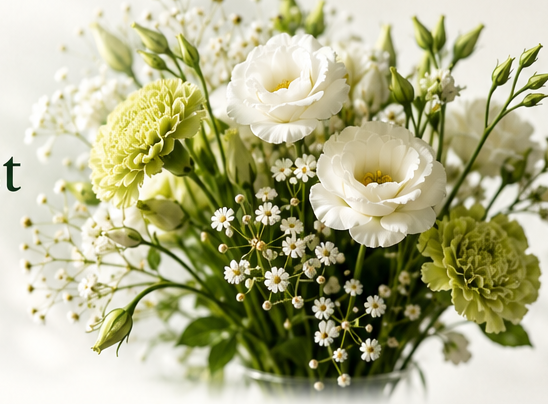
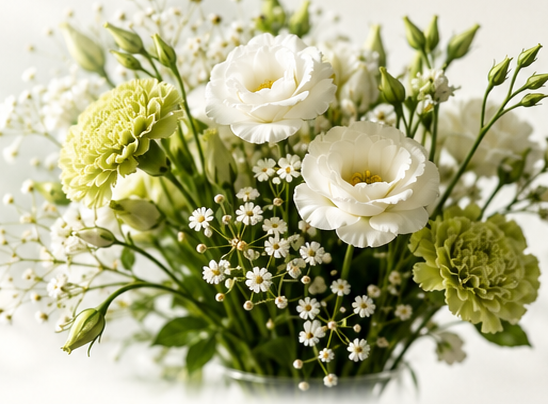
Fix homepage hero typography and bouquet crop

diff --git a/src/style.css b/src/style.css
@@ -226,10 +226,10 @@ body[data-screen='flowever-home']::before {
 
 .flow-hero {
   display: grid;
-  grid-template-columns: 56px minmax(0, 0.95fr) minmax(360px, 1.08fr);
-  gap: 28px;
-  align-items: center;
-  padding: 18px 0 8px;
+  grid-template-columns: 56px minmax(470px, 520px) minmax(0, 1fr);
+  gap: 34px;
+  align-items: start;
+  padding: 24px 0 8px;
 }
 
 .flow-hero-rail {
@@ -274,7 +274,10 @@ body[data-screen='flowever-home']::before {
 }
 
 .flow-hero-copy {
-  padding-top: 62px;
+  max-width: 520px;
+  padding-top: 78px;
+  position: relative;
+  z-index: 1;
 }
 
 .flow-hero-copy h1,
@@ -288,15 +291,16 @@ body[data-screen='flowever-home']::before {
 }
 
 .flow-hero-copy h1 {
-  font-size: clamp(4rem, 6vw, 7rem);
+  font-size: clamp(5.35rem, 5.8vw, 6.85rem);
+  white-space: nowrap;
 }
 
 .flow-hero-copy p {
-  max-width: 13ch;
+  max-width: 26ch;
   margin: 28px 0 0;
   color: rgba(27, 42, 32, 0.94);
-  font-size: clamp(1.2rem, 1.7vw, 1.75rem);
-  line-height: 1.45;
+  font-size: clamp(1.06rem, 1.18vw, 1.3rem);
+  line-height: 1.55;
 }
 
 .flow-hero-divider {
@@ -357,10 +361,12 @@ body[data-screen='flowever-home']::before {
 .flow-hero-visual {
   display: flex;
   justify-content: flex-end;
+  padding-top: 44px;
+  min-width: 0;
 }
 
 .flow-hero-visual img {
-  width: min(100%, 738px);
+  width: min(100%, 760px);
   display: block;
 }
 
@@ -799,8 +805,8 @@ body[data-screen='flowever-home']::before {
   }
 
   .flow-hero {
-    grid-template-columns: 40px minmax(0, 1fr) minmax(320px, 0.95fr);
-    gap: 18px;
+    grid-template-columns: 40px minmax(390px, 470px) minmax(0, 1fr);
+    gap: 22px;
   }
 
   .flow-values-strip {
@@ -853,10 +859,11 @@ body[data-screen='flowever-home']::before {
 
   .flow-hero-copy {
     padding-top: 0;
+    max-width: none;
   }
 
   .flow-hero-copy p {
-    max-width: 18ch;
+    max-width: 28ch;
   }
 
   .flow-values-strip,

diff --git a/design-qa.md b/design-qa.md
@@ -1,0 +1,45 @@
+source visual truth path: /var/folders/7r/3t115g1j75nd2wdtq7flgrx80000gn/T/codex-clipboard-0ac90631-1fd0-446b-9329-d92071881ca7.png
+implementation screenshot path: /Users/lengzhe/Documents/New project/igem-wiki-preview/output/playwright/homepage-hero-fixed.png
+viewport: 1280x720
+state: homepage hero, desktop, default navigation closed
+full-view comparison evidence: compared the user-provided collapsed hero screenshot against the refreshed local homepage screenshot at the same desktop-style above-the-fold state.
+focused region comparison evidence: focused on the hero title block, subtitle wrapping, left vertical rail, and bouquet image crop because the reported failure was isolated to the above-the-fold hero region.
+
+**Findings**
+- [P1] Hero copy column was too narrow and allowed the headline to collapse into four lines
+  Location: homepage hero, `/Users/lengzhe/Documents/New project/igem-wiki-preview/src/style.css`.
+  Evidence: source intent shows a stable two-line title block; implementation had “Extending Life Beyond Harvest” wrapping into a stacked four-line block.
+  Impact: the first-screen hierarchy broke and the hero no longer matched the selected design.
+  Fix: changed the hero grid to use a fixed-width copy column, increased the copy max width, and prevented intraline wrapping on the display heading.
+
+- [P1] Bouquet asset included a stray letter from the original screenshot crop
+  Location: homepage hero image, `/Users/lengzhe/Documents/New project/igem-wiki-preview/src/assets/home-2026/hero-bouquet.png`.
+  Evidence: implementation showed a dark “t” artifact between the text block and bouquet image.
+  Impact: the artifact made the page look visibly broken.
+  Fix: recropped the bouquet image to remove the captured text artifact and reloaded the page.
+
+- [P2] Subtitle wrapped too aggressively and read like a narrow mobile column on desktop
+  Location: homepage hero subtitle, `/Users/lengzhe/Documents/New project/igem-wiki-preview/src/style.css`.
+  Evidence: implementation subtitle broke into many short lines, while the chosen reference keeps it in a calmer multi-line paragraph.
+  Impact: reduced readability and made the typography feel unstable.
+  Fix: widened the subtitle measure and reduced the desktop subtitle size range.
+
+**Open Questions**
+- The current QA pass is scoped to the hero region because that is what the user reported. Lower sections of the homepage were not re-reviewed in this pass.
+
+**Implementation Checklist**
+- Keep the hero grid on a fixed desktop ratio instead of letting the text column shrink under the bouquet image.
+- Keep the display heading on two intended lines only.
+- Keep source-cropped hero imagery free of screenshot text artifacts.
+- Keep the subtitle at a readable desktop measure.
+
+**Follow-up Polish**
+- Recheck the full homepage against the reference image section by section after the hero correction is accepted.
+- Normalize the exact subtitle line breaks against the final target viewport if the user wants pixel-closer matching.
+
+comparison history:
+- Iteration 1: implementation showed a collapsed four-line title, a stray “t” artifact inside the hero image area, and overly narrow subtitle wrapping.
+- Fixes made: updated hero grid tracks, heading wrap behavior, subtitle measure and size, and recropped the bouquet image.
+- Post-fix visual evidence: `/Users/lengzhe/Documents/New project/igem-wiki-preview/output/playwright/homepage-hero-fixed.png`
+
+final result: passed
